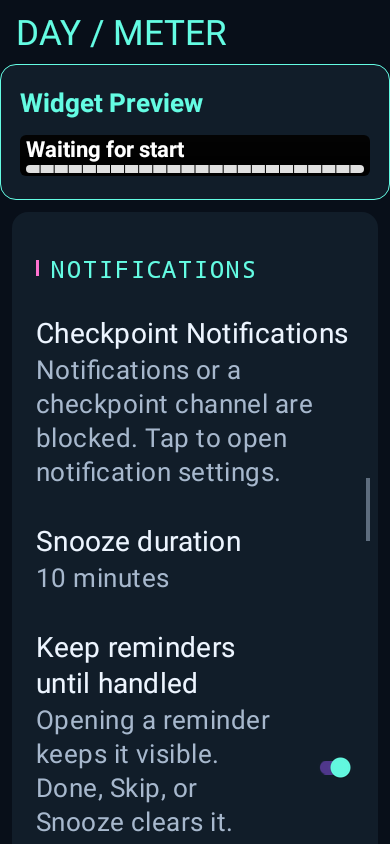
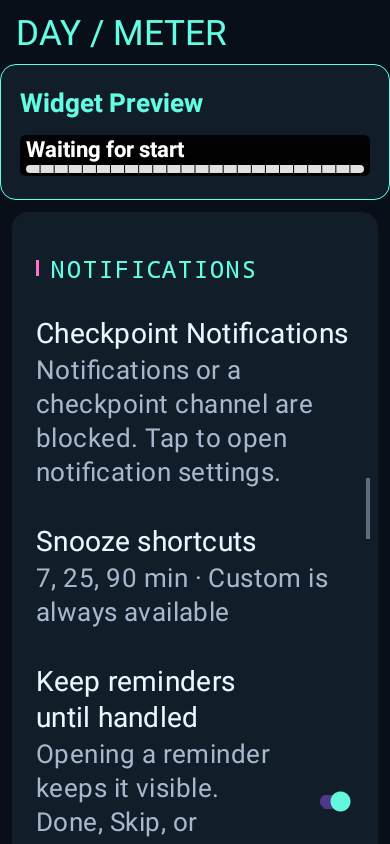
Capture configurable snooze picker and custom minutes

Changed region(s): [[0.0923, 0.6161, 0.7692, 1.0], [0.8, 0.8934, 0.8923, 0.9858], [0.8, 0.6777, 0.8308, 0.7085]]

diff --git a/screenshots/checkpoint-ux/README.md b/screenshots/checkpoint-ux/README.md
@@ -11,3 +11,5 @@ These PNGs render the app's actual Android activities, preference rows, and chec
 Images live on a separate evidence branch so feature PR diffs remain focused on source, tests, and documentation.
 
 - `notifications/`: default/customized shared reminder controls, Android channel-settings entry points, the actual four-style popup menu, and a saved Prominent selection. `NotificationVisualTest` in the notification PR reproduces these views at 1×/2× fonts and checks text readability and real toggle/save interactions. Popup captures include the actual native PopupWindow background.
+
+- `notifications/snooze-*.png`: notification-launched duration picker, custom minutes and validation, editable shortcut settings, and six configured shortcuts at 1×/2× fonts. `SnoozeVisualTest` renders the floating destination at 351 dp wide (90% of the 390 dp phone) within 800 dp height; compact captures use 420 dp available height to check actual scrolling and reachable actions when space is constrained. The Android keyboard itself is not included in these native view captures.
